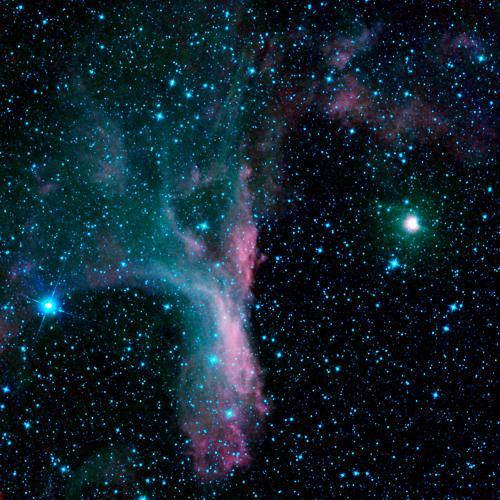
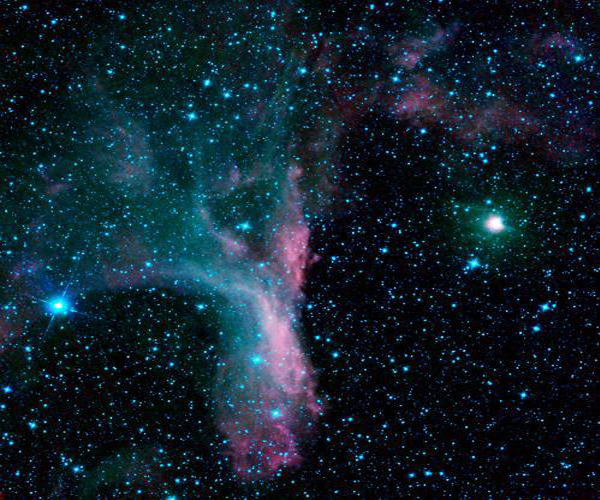
changed width of the game

diff --git a/index.html b/index.html
@@ -23,7 +23,7 @@
 </head>
 <body>
   <div id='game-wrapper'>
-    <canvas id='gameboard' width='500' height='500'></canvas>
+    <canvas id='gameboard' width='600' height='500'></canvas>
   </div>
 </body>
 </html>
